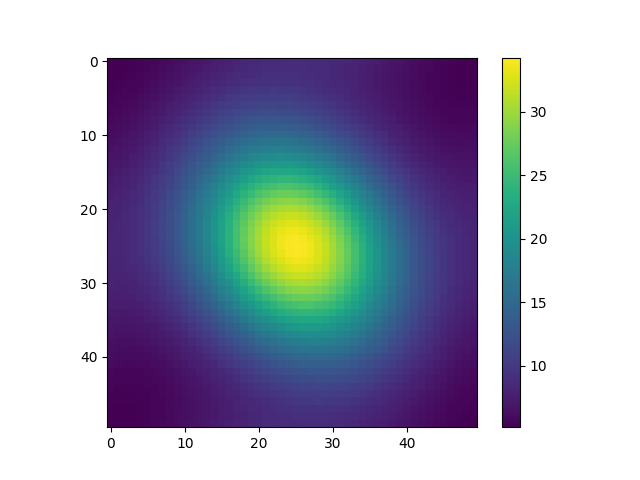
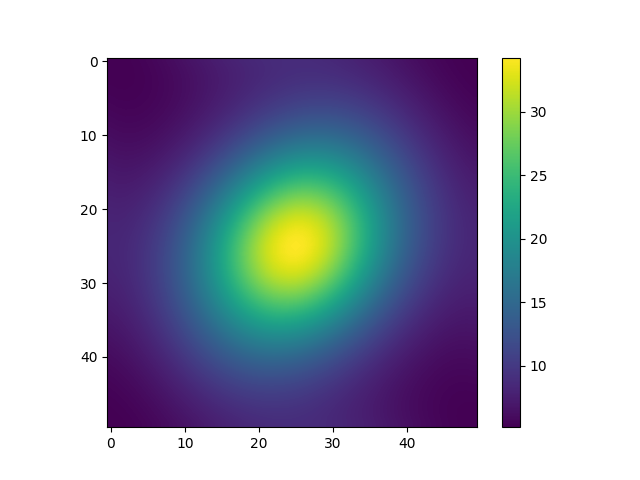
correct with answers

Changed region(s): [[0.25, 0.5312, 0.6875, 0.8125], [0.25, 0.2188, 0.6875, 0.5]]

diff --git a/diffusion.py b/diffusion.py
@@ -56,7 +56,7 @@ def update_grid_v(phi_grid, sigma, k, D, dx, dt, grid_size, v0):
             np.roll(phi_grid, -1, axis=0) -
             (4 * phi_grid)) / dx**2) +
             rho -
-            (k * phi_grid) +    # one minus sign was messing things up so change this one.
+            (k * phi_grid) -
             (d_phi_dx * vx))
 
     return phi_grid
